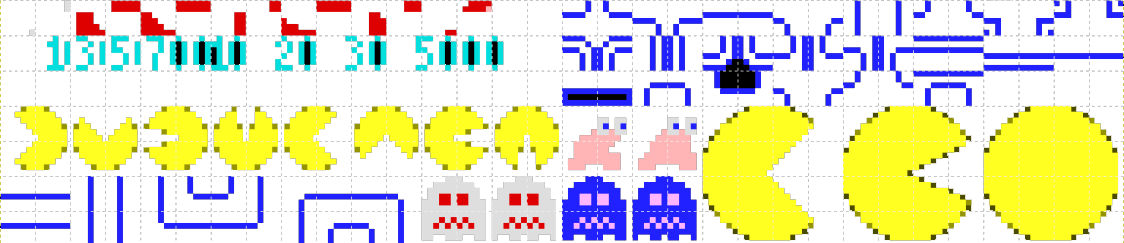
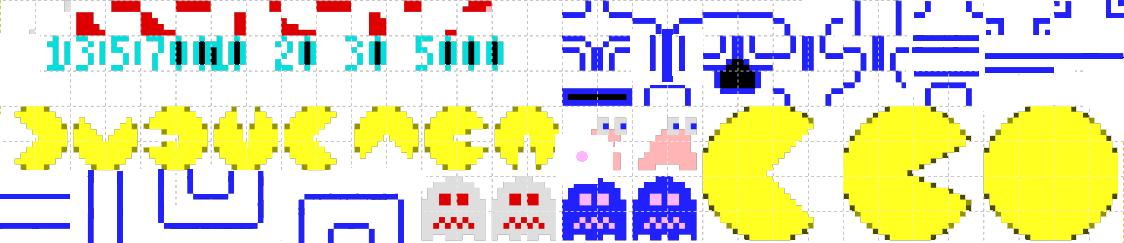
map,ghosts, dots fixed and added

diff --git a/Game1.cs b/Game1.cs
@@ -29,6 +29,8 @@ namespace MsPacMan
 
         public int boardWidth, boardHeight;
 
+        public static Random rnd = new Random();
+
         #endregion
 
         #region Constuctor
@@ -72,7 +74,6 @@ namespace MsPacMan
                 return spriteSheetAssets;
             }
         }
-
 
         //property refering to the textures to create the assets
         public SpriteBatch SpriteBatch
@@ -182,21 +183,36 @@ namespace MsPacMan
                         case 'B':
                             spriteBatch.Draw(texture: SpriteSheetMap, destinationRectangle: outRect, sourceRectangle: new Rectangle(11 * 35, 5 * 35, 35, 35), color: Color.White);
                             break;
-                           /*bottom right corner*/
+
+                        case 'X':
+                            spriteBatch.Draw(texture: SpriteSheetMap, destinationRectangle: outRect, sourceRectangle: new Rectangle(10 * 35, 6 * 35, 35, 35), color: Color.White);
+                            break;
+                        /*bottom right corner*/
                         case 'D':
                             spriteBatch.Draw(texture: SpriteSheetMap, destinationRectangle: outRect, sourceRectangle: new Rectangle(7 * 35, 6 * 35, 35, 35), color: Color.White);
-                            break;                       
-                            /*bottom left corner*/
-                        case 'Q':
+                            break;
+
+                        case 'Y':
+                            spriteBatch.Draw(texture: SpriteSheetMap, destinationRectangle: outRect, sourceRectangle: new Rectangle(6 * 35, 5 * 35, 35, 35), color: Color.White);
+                            break;
+                        /*bottom left cornerS*/
+                        case 'H':
                             spriteBatch.Draw(texture: SpriteSheetMap, destinationRectangle: outRect, sourceRectangle: new Rectangle(4 * 35, 6 * 35, 35, 35), color: Color.White);
+                            break;
+
+                        case 'Q':
+                            spriteBatch.Draw(texture: SpriteSheetMap, destinationRectangle: outRect, sourceRectangle: new Rectangle(5 * 35, 5 * 35, 35, 35), color: Color.White);
                             break;
                             /*top left corner*/
                         case 'P':
+                            spriteBatch.Draw(texture: SpriteSheetMap, destinationRectangle: outRect, sourceRectangle: new Rectangle(9 * 35, 6 * 35, 35, 35), color: Color.White);
+                            break;
+                        case '0':
                             spriteBatch.Draw(texture: SpriteSheetMap, destinationRectangle: outRect, sourceRectangle: new Rectangle(8 * 35, 5 * 35, 35, 35), color: Color.White);
                             break;
 
-                            //VERTICAL LINES
-                            /*left side vertical lines*/
+                        //VERTICAL LINES
+                        /*left side vertical lines*/
                         case 'R':
                             spriteBatch.Draw(texture: SpriteSheetMap, destinationRectangle: outRect, sourceRectangle: new Rectangle(3 * 35, 6 * 35, 35, 35), color: Color.White);
                             break;
@@ -204,17 +220,10 @@ namespace MsPacMan
                        case 'V':
                             spriteBatch.Draw(texture: SpriteSheetMap, destinationRectangle: outRect, sourceRectangle: new Rectangle(2 * 35, 6 * 35, 35, 35), color: Color.White);
                             break;
-                            //special corners for more rounded places
-                            /*left side*/
-                        case 'X':
-                            spriteBatch.Draw(texture: SpriteSheetMap, destinationRectangle: outRect, sourceRectangle: new Rectangle(22 * 35, 0, 35, 35), color: Color.White);
-                            break;
                             /*right side*/
-                        case 'Y':
-                            spriteBatch.Draw(texture: SpriteSheetMap, destinationRectangle: outRect, sourceRectangle: new Rectangle(23 * 35, 0, 35, 35), color: Color.White);
-                            break;
                         //GHOST SPAWN
                         /*middle top left corner*/
+
                         case '4':
                             spriteBatch.Draw(texture: SpriteSheetMap, destinationRectangle: outRect, sourceRectangle: new Rectangle(29 * 35, 0, 35, 35), color: Color.White);
                             break;
@@ -246,9 +255,12 @@ namespace MsPacMan
                         case 'W':
                             spriteBatch.Draw(texture: SpriteSheetMap, destinationRectangle: outRect, sourceRectangle: new Rectangle(28 * 35, 1 * 35, 35, 35), color: Color.White);
                             break;
+                        case '.':
+                            spriteBatch.Draw(texture: SpriteSheetMap, destinationRectangle: outRect, sourceRectangle: new Rectangle(0, 1 * 35, 35, 35), color: Color.White);
+                            break;
                         //this represents the non specified letters or numbers on the switch case and by default adds the color of the background
                         default:
-                            spriteBatch.Draw(spriteSheetMap, outRect, new Rectangle(0, 2 * 35, 35, 35), Color.White);
+                            spriteBatch.Draw(spriteSheetMap, outRect, new Rectangle(16 * 35, 4 * 35, 35, 35), Color.White);
                             break;
                     }
 

diff --git a/Player.cs b/Player.cs
@@ -10,43 +10,57 @@ namespace MsPacMan
 {
     public class Player : DrawableGameComponent
     {
-
-        #region Variables
         enum Direction
         {
             Up, Down, Right, Left
         }
 
+        #region Variables
+        
+        public Point position, targetPosition, origin;
+       
+        public int lives = 3;
+        
         Dictionary<Direction, Vector2> spritePositions;
 
         Direction direction = Direction.Down;
 
-        public int lives = 3;
-
         int frame = 0;
-
-        public Point position, targetPosition, origin;
+        
         Texture2D texture;
+        
         SpriteFont arial;
+        
         SpriteBatch spriteBatch;
+        
         Board board;
-        Game1 game;
+        
+        Game1 game1;
+        
         #endregion
 
         #region Constructors
         public Player(Game1 game, int x, int y) : base (game)
         {
-            DrawOrder = 100; //Player should be the last object to draw
-
+            //Player should be the last object to draw
+            DrawOrder = 100; 
+            
+            this.game1 = game;
+            
             position.Y = y * Game1.outputTileSize;
+            
             position.X = x * Game1.outputTileSize;
+            
             targetPosition = position;
+            
             origin = targetPosition = position;
 
-            texture = game.SpriteSheetPlayer;
-            spriteBatch = game.SpriteBatch;
-            board = game.Board;
-            this.game = game;
+            texture = game1.SpriteSheetPlayer;
+            
+            spriteBatch = game1.SpriteBatch;
+            
+            board = game1.Board;
+            
 
             //Change of sprite according to the direction the player is moving
             //spritePositions = new Dictionary<Direction, Vector2>();
@@ -68,6 +82,7 @@ namespace MsPacMan
                 frame = 0;
 
                 targetPosition = position;
+                
                 KeyboardState state = Keyboard.GetState();
 
                 #region Player Movement Controls
@@ -130,13 +145,15 @@ namespace MsPacMan
                 }
                 #endregion
             }
-
-            else //position is not the same 
+            // if the position is not the same
+            else  
             {
-
                 Vector2 vec = targetPosition.ToVector2() - position.ToVector2();
+               
                 vec.Normalize();
+                
                 position = (position.ToVector2() + vec).ToPoint();
+                
                 if ((position.X + position.Y) % 5 == 0) frame++;
 
 
@@ -144,47 +161,42 @@ namespace MsPacMan
             }
         }
 
+        //Draws the pacman on the different positions
         public override void Draw(GameTime gameTime)
         {
             spriteBatch.Begin();
 
-            spriteBatch.Draw(texture,
-
-                new Rectangle(position, new Point(Game1.outputTileSize)),
-                new Rectangle(
-
-                    ((spritePositions[direction] + Vector2.UnitX * frame) * 16).ToPoint(),
-                    new Point(16, 16)
-
-                    ),
-                Color.White
-
-                );
+            spriteBatch.Draw(texture, new Rectangle(position, new Point(Game1.outputTileSize)), new Rectangle(((spritePositions[direction] + Vector2.UnitX * frame) * 16).ToPoint(),new Point(16, 16)),Color.White);
+            
             if (lives <= 0)
             {
                 string gameOverText = "GAME OVER!";
+                
                 Vector2 stringSize = arial.MeasureString(gameOverText);
-                Vector2 screenSize = new Vector2(game.graphics.PreferredBackBufferWidth, game.graphics.PreferredBackBufferHeight);
+                
+                Vector2 screenSize = new Vector2(game1.graphics.PreferredBackBufferWidth, game1.graphics.PreferredBackBufferHeight);
+                
                 Vector2 textPos = (screenSize - stringSize) / 2.0f;
 
                 spriteBatch.DrawString(arial, gameOverText, textPos, Color.White);
             }
-
-
+            
             spriteBatch.End();
         }
 
         public void Die()
         {
             lives--;
+
             position = targetPosition = origin;
+            
             if (lives <= 0)
             {
-                //R.I.P.
+                //TODO this
 
-                foreach (DrawableGameComponent comp in game.Components)
+                foreach (DrawableGameComponent gameComponent in game1.Components)
                 {
-                    comp.Enabled = false;
+                    gameComponent.Enabled = false;
                 }
             }
         }

diff --git a/Ghosts.cs b/Ghosts.cs
@@ -59,7 +59,10 @@ namespace MsPacMan
         #endregion
 
         #region Methods
-        //rewritting this method in a different class
+
+
+
+        //Draws the different types of ghosts
         public override void Draw(GameTime gameTime)
         {
             
